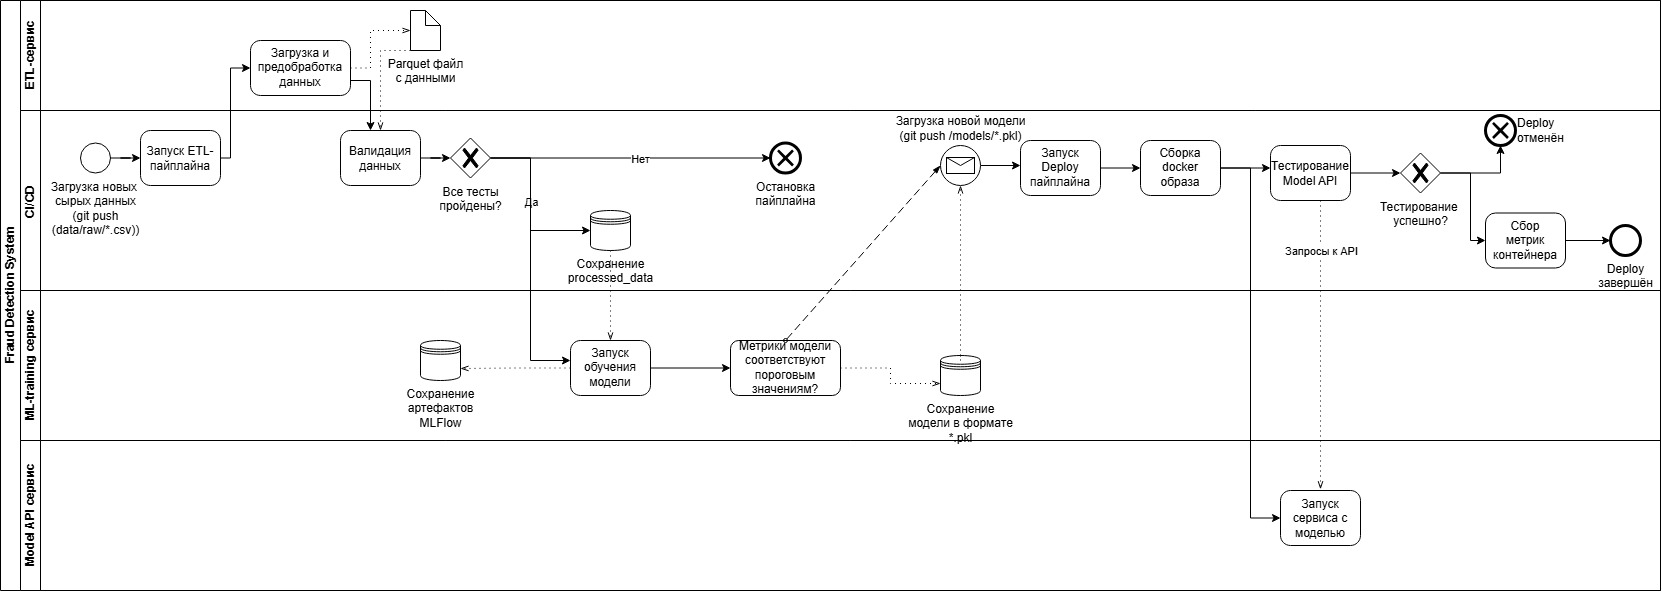
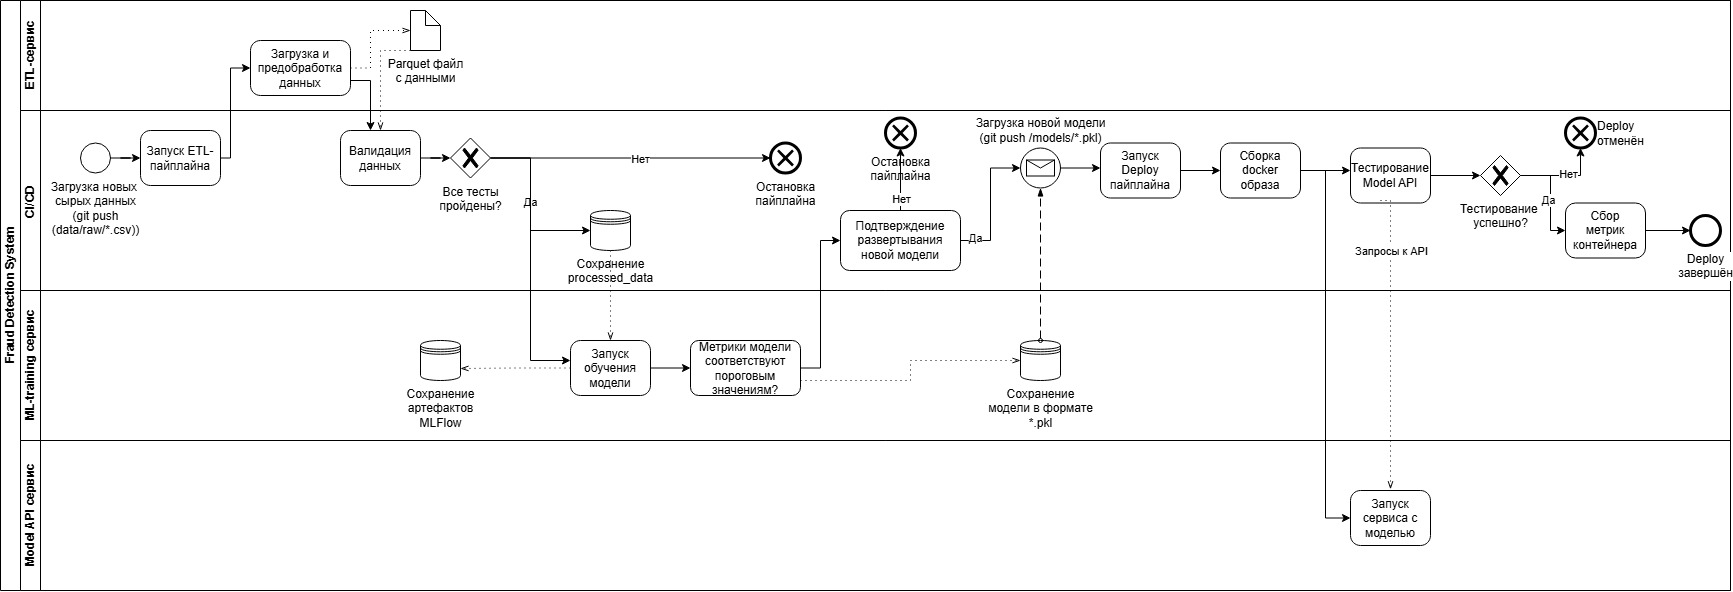
edit model retrain, add env scripts

diff --git a/src/model_scripts/check_metrics.py b/src/model_scripts/check_metrics.py
@@ -1,0 +1,122 @@
+# src/model_scripts/check_metrics.py
+"""
+Quality gate для деплоя модели фрод-детекции.
+
+Пороги выставлены по метрикам актуальной Model v2
+(Accuracy=0.9345, F1=0.7783, Precision_fraud=0.6745,
+Recall_fraud=0.92, ROC-AUC=0.97818) с небольшим допуском
+на естественный разброс между запусками.
+
+Логика:
+- Для recall_fraud и roc_auc (ключевые для безопасности)
+  порог почти на уровне v2 — не допускаем деградации.
+- Для f1_score и precision_fraud — небольшой допуск (0.01),
+  т.к. эти метрики более шумные при переобучении.
+- Accuracy не используем как отдельный gate: при сильном
+  дисбалансе классов она малоинформативна (0.93 достигается
+  тривиальным предсказанием "всё нормально").
+"""
+import os
+import sys
+from pathlib import Path
+
+import mlflow
+
+# ==========================================
+# ПОРОГИ (обоснованы метриками Model v2)
+# ==========================================
+THRESHOLDS = {
+    # Ключевая метрика безопасности: не пропускать фрод.
+    # v2 = 0.92 → порог 0.90 (допуск 0.02 на разброс).
+    "recall_fraud": 0.90,
+
+    # Качество ранжирования транзакций по риску.
+    # v2 = 0.97818 → порог 0.975 (допуск ~0.003).
+    "roc_auc": 0.975,
+
+    # Баланс precision/recall. v2 = 0.7783 → порог 0.76.
+    "f1_score": 0.76,
+
+    # Снижение ложных блокировок легитимных клиентов.
+    # v2 = 0.6745 → порог 0.66 (допуск ~0.015).
+    "precision_fraud": 0.66,
+}
+
+
+def main():
+    project_root = Path(__file__).parent.parent.parent
+    mlflow_dir = project_root / "mlruns"
+
+    if not mlflow_dir.exists():
+        print(f"❌ MLflow directory not found at {mlflow_dir}")
+        sys.exit(1)
+
+    mlflow.set_tracking_uri(mlflow_dir.as_uri())
+
+    experiment_name = "fraud_detection"  # при необходимости поправьте
+    experiment = mlflow.get_experiment_by_name(experiment_name)
+
+    if not experiment:
+        print(f"❌ Experiment '{experiment_name}' not found")
+        sys.exit(1)
+
+    # Берём последний run эксперимента
+    runs = mlflow.search_runs(
+        experiment_ids=[experiment.experiment_id],
+        order_by=["start_time DESC"],
+        max_results=1,
+    )
+
+    if runs.empty:
+        print("❌ No runs found")
+        sys.exit(1)
+
+    latest_run = runs.iloc[0]
+    run_id = latest_run["run_id"]
+    metrics = latest_run.filter(like="metrics.").to_dict()
+
+    print(f"📊 Checking metrics for run: {run_id}")
+
+    failed = False
+    summary_lines = [
+        "## Model Quality Gate",
+        f"**Run ID:** `{run_id}`",
+        "",
+        "| Metric | Value | Threshold | Status |",
+        "|--------|-------|-----------|--------|",
+    ]
+
+    for metric_name, threshold in THRESHOLDS.items():
+        value = metrics.get(f"metrics.{metric_name}")
+        if value is None:
+            status = "❌ MISSING"
+            failed = True
+            val_str = "N/A"
+        else:
+            val_str = f"{value:.4f}"
+            status = "✅ PASS" if value >= threshold else "❌ FAIL"
+            if value < threshold:
+                failed = True
+
+        summary_lines.append(
+            f"| {metric_name} | {val_str} | ≥ {threshold} | {status} |"
+        )
+
+    # Пишем в GitHub Job Summary (видно на странице Approve)
+    summary_path = os.environ.get("GITHUB_STEP_SUMMARY")
+    if summary_path:
+        with open(summary_path, "a") as f:
+            f.write("\n".join(summary_lines))
+            f.write("\n")
+
+    print("\n".join(summary_lines))
+
+    if failed:
+        print("\n❌ Quality gate failed. Pipeline stops before approval.")
+        sys.exit(1)
+
+    print("\n✅ All metrics passed. Waiting for manual approval.")
+
+
+if __name__ == "__main__":
+    main()
